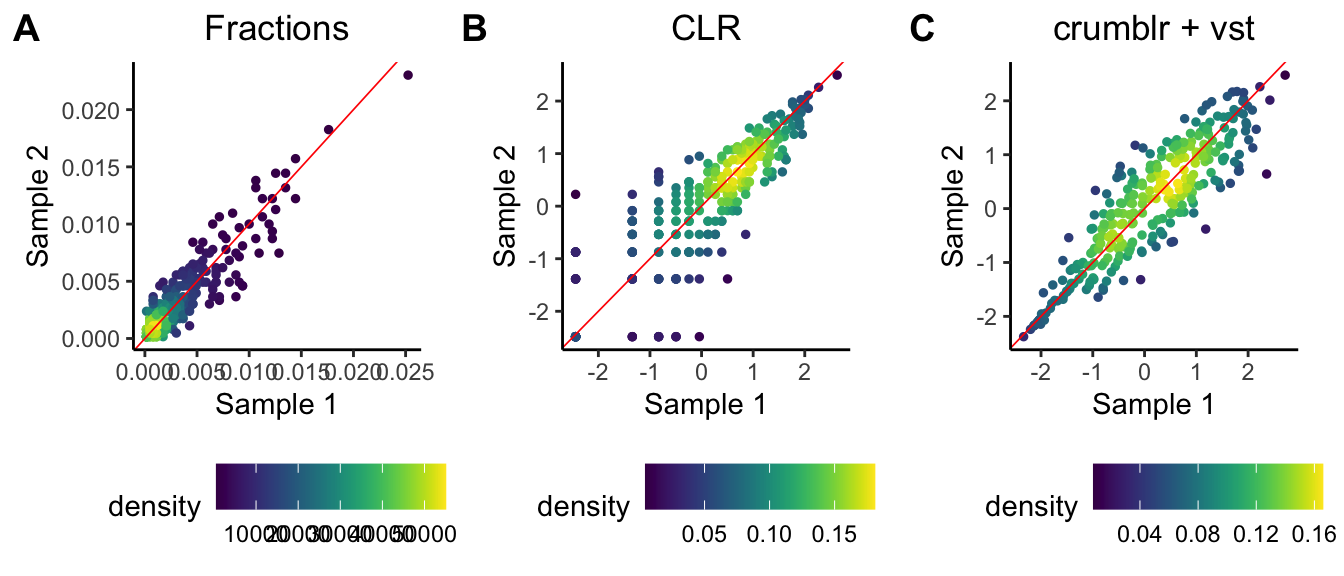
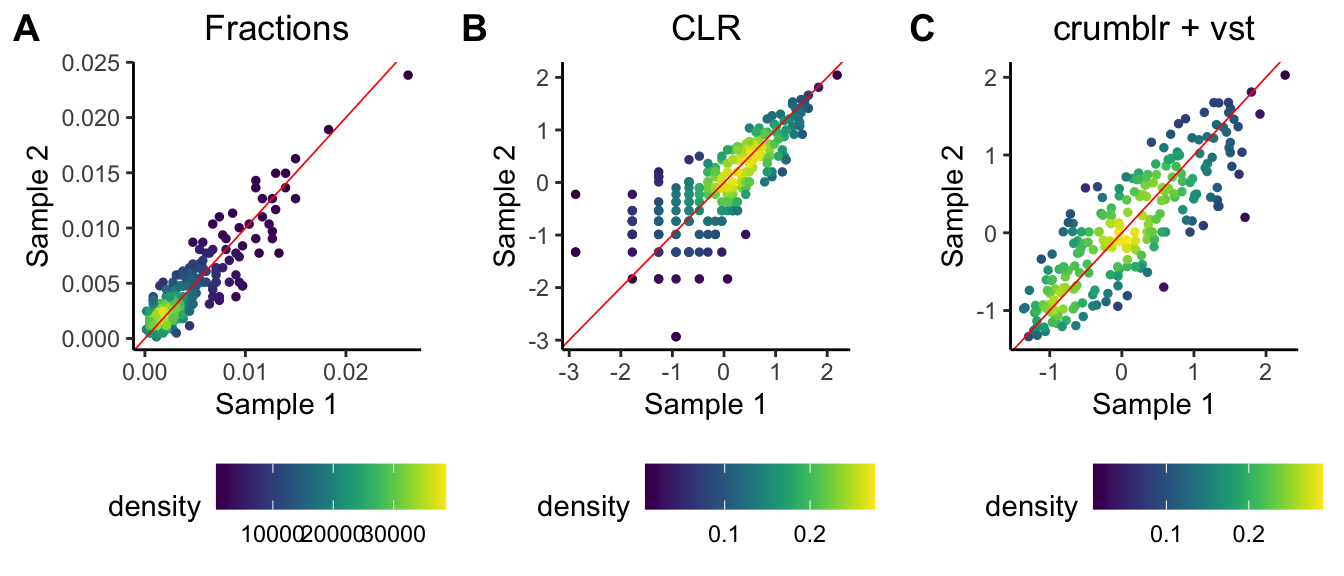
update docs

diff --git a/docs/articles/vst.html b/docs/articles/vst.html
@@ -92,7 +92,7 @@
                         <h4 data-toc-skip class="author">Developed by <a href="http://gabrielhoffman.github.io/" class="external-link">Gabriel Hoffman</a>
 </h4>
             
-            <h4 data-toc-skip class="date">Run on 2022-02-01 15:45:00</h4>
+            <h4 data-toc-skip class="date">Run on 2022-02-01 19:47:32</h4>
       
       <small class="dont-index">Source: <a href="https://github.com/GabrielHoffman/crumblr/blob/HEAD/vignettes/vst.Rmd" class="external-link"><code>vignettes/vst.Rmd</code></a></small>
       <div class="hidden name"><code>vst.Rmd</code></div>
@@ -140,19 +140,18 @@ rmarkdown::render('vst.Rmd')
 <span class="fu"><a href="https://rdrr.io/r/base/colnames.html" class="external-link">colnames</a></span><span class="op">(</span><span class="va">counts</span><span class="op">)</span> <span class="op">=</span> <span class="fu"><a href="https://rdrr.io/r/base/paste.html" class="external-link">paste0</a></span><span class="op">(</span><span class="st">"cat_"</span>, <span class="fl">1</span><span class="op">:</span><span class="fu"><a href="https://rdrr.io/r/base/length.html" class="external-link">length</a></span><span class="op">(</span><span class="va">prob</span><span class="op">)</span><span class="op">)</span>
 <span class="fu"><a href="https://rdrr.io/r/base/colnames.html" class="external-link">rownames</a></span><span class="op">(</span><span class="va">counts</span><span class="op">)</span> <span class="op">=</span> <span class="fu"><a href="https://rdrr.io/r/base/paste.html" class="external-link">paste0</a></span><span class="op">(</span><span class="st">"sample_"</span>, <span class="fl">1</span><span class="op">:</span><span class="va">n_samples</span><span class="op">)</span>
 
+<span class="co"># keep categories with at least 5 counts in at least 10 samples</span>
+<span class="va">keep</span> <span class="op">=</span> <span class="fu"><a href="https://rdrr.io/r/base/colSums.html" class="external-link">colSums</a></span><span class="op">(</span><span class="va">counts</span> <span class="op">&gt;</span> <span class="fl">5</span><span class="op">)</span> <span class="op">&gt;</span> <span class="fl">20</span>
+
 <span class="co"># compute fractions from counts</span>
 <span class="co"># using pseudocount of 0.5</span>
-<span class="va">fractions</span> <span class="op">=</span> <span class="fu"><a href="https://rdrr.io/r/base/apply.html" class="external-link">apply</a></span><span class="op">(</span><span class="va">counts</span>, <span class="fl">1</span>, <span class="kw">function</span><span class="op">(</span><span class="va">x</span><span class="op">)</span><span class="op">{</span>
+<span class="va">fractions</span> <span class="op">=</span> <span class="fu"><a href="https://rdrr.io/r/base/apply.html" class="external-link">apply</a></span><span class="op">(</span><span class="va">counts</span><span class="op">[</span>,<span class="va">keep</span><span class="op">]</span>, <span class="fl">1</span>, <span class="kw">function</span><span class="op">(</span><span class="va">x</span><span class="op">)</span><span class="op">{</span>
   <span class="va">x</span> <span class="op">=</span> <span class="va">x</span> <span class="op">+</span> <span class="fl">0.5</span>
   <span class="va">x</span> <span class="op">/</span> <span class="fu"><a href="https://rdrr.io/r/base/sum.html" class="external-link">sum</a></span><span class="op">(</span><span class="va">x</span><span class="op">)</span>
 <span class="op">}</span><span class="op">)</span>
 
 <span class="co"># run crumblr on counts</span>
-<span class="va">cobj</span> <span class="op">=</span> <span class="fu"><a href="../reference/crumblr.html">crumblr</a></span><span class="op">(</span><span class="va">counts</span>, tau<span class="op">=</span><span class="fl">1</span><span class="op">)</span>
-
-<span class="va">vst</span> <span class="op">=</span> <span class="kw">function</span><span class="op">(</span><span class="va">x</span><span class="op">)</span><span class="op">{</span>
-        <span class="fu"><a href="https://rdrr.io/r/base/with.html" class="external-link">with</a></span><span class="op">(</span><span class="va">x</span>, <span class="va">E</span> <span class="op">*</span> <span class="op">(</span><span class="fu"><a href="https://rdrr.io/r/base/MathFun.html" class="external-link">sqrt</a></span><span class="op">(</span><span class="va">weights</span><span class="op">)</span><span class="op">/</span><span class="fu"><a href="https://rdrr.io/r/base/colSums.html" class="external-link">rowMeans</a></span><span class="op">(</span><span class="fu"><a href="https://rdrr.io/r/base/MathFun.html" class="external-link">sqrt</a></span><span class="op">(</span><span class="va">weights</span><span class="op">)</span><span class="op">)</span><span class="op">)</span><span class="op">)</span>    
-<span class="op">}</span></code></pre></div>
+<span class="va">cobj</span> <span class="op">=</span> <span class="fu"><a href="../reference/crumblr.html">crumblr</a></span><span class="op">(</span><span class="va">counts</span><span class="op">[</span>,<span class="va">keep</span><span class="op">]</span>, tau<span class="op">=</span><span class="fl">1</span><span class="op">)</span></code></pre></div>
 </div>
 <div class="section level3">
 <h3 id="apply-vst">Apply <code>vst</code><a class="anchor" aria-label="anchor" href="#apply-vst"></a>
